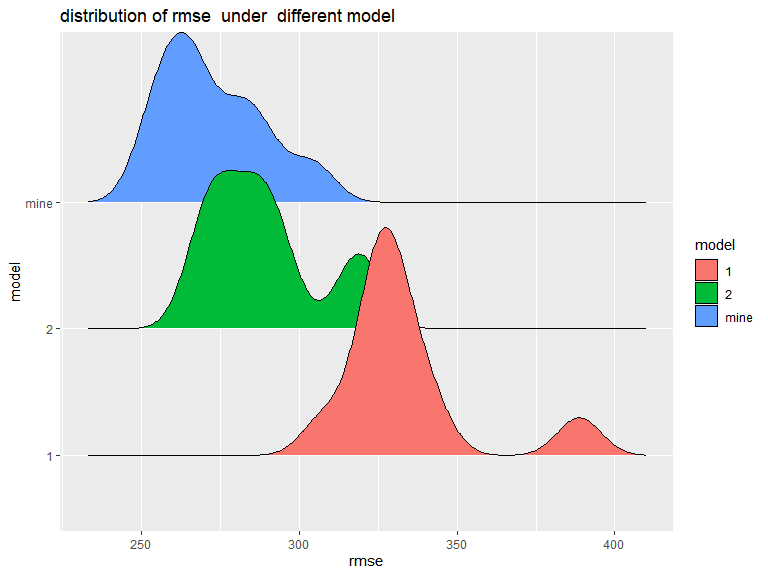
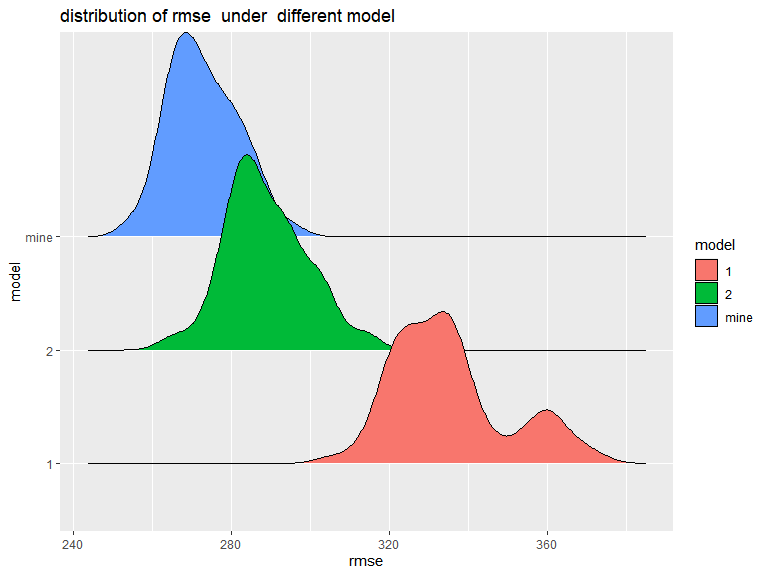
changing from k-fold cv to 100 different samples due to unstability of the result

diff --git a/p8105_hw6_zj2357.md b/p8105_hw6_zj2357.md
@@ -264,12 +264,12 @@ predicted values are not equal. That indicates our model may not be the
 best model.
 
 To compare different models, use cross validation (CV). In this case, we
-choose 10-fold CV since the dataset is large enough. Calculate the rmse
-for each test on different models:
+choose 100 different train-test pairs to gurantee the stability of the
+result. Calculate the rmse for each test on different models:
 
 ``` r
 cv_df = 
-  crossv_kfold(birth_df, k = 10) %>%
+  crossv_mc(birth_df, n = 100) %>%
   mutate(
     train = map(train, as_tibble),
     test = map(test, as_tibble)
